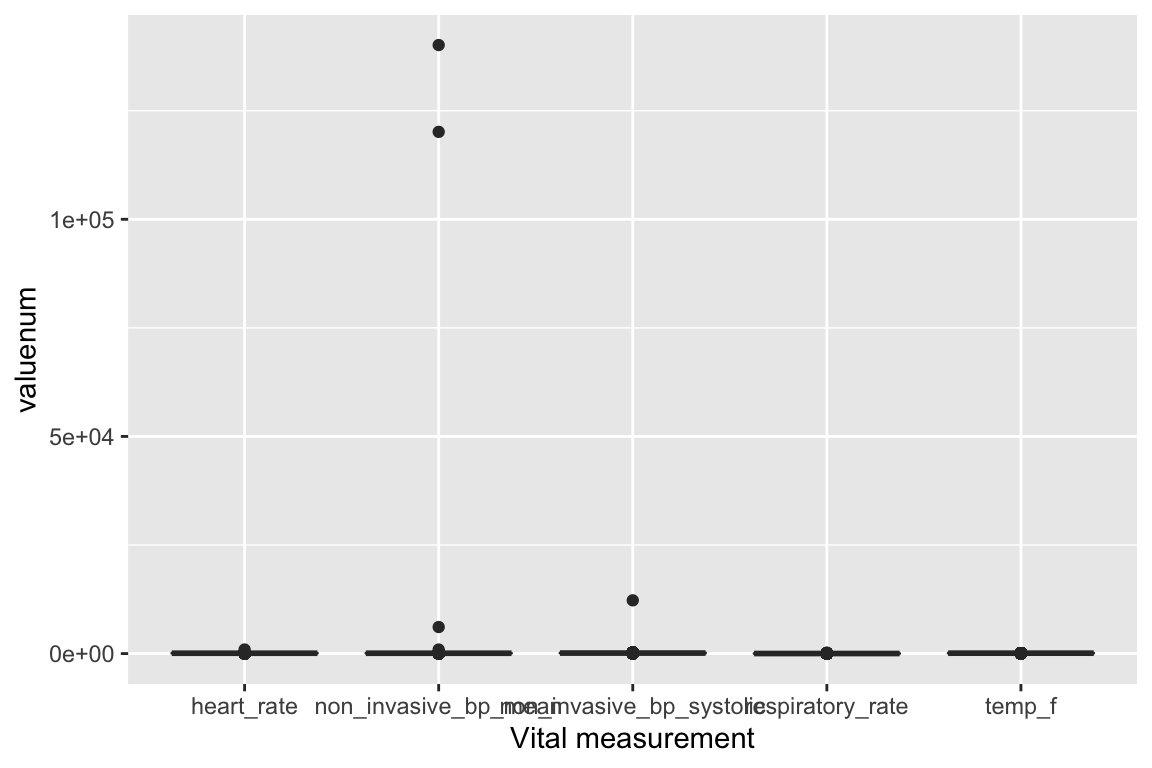
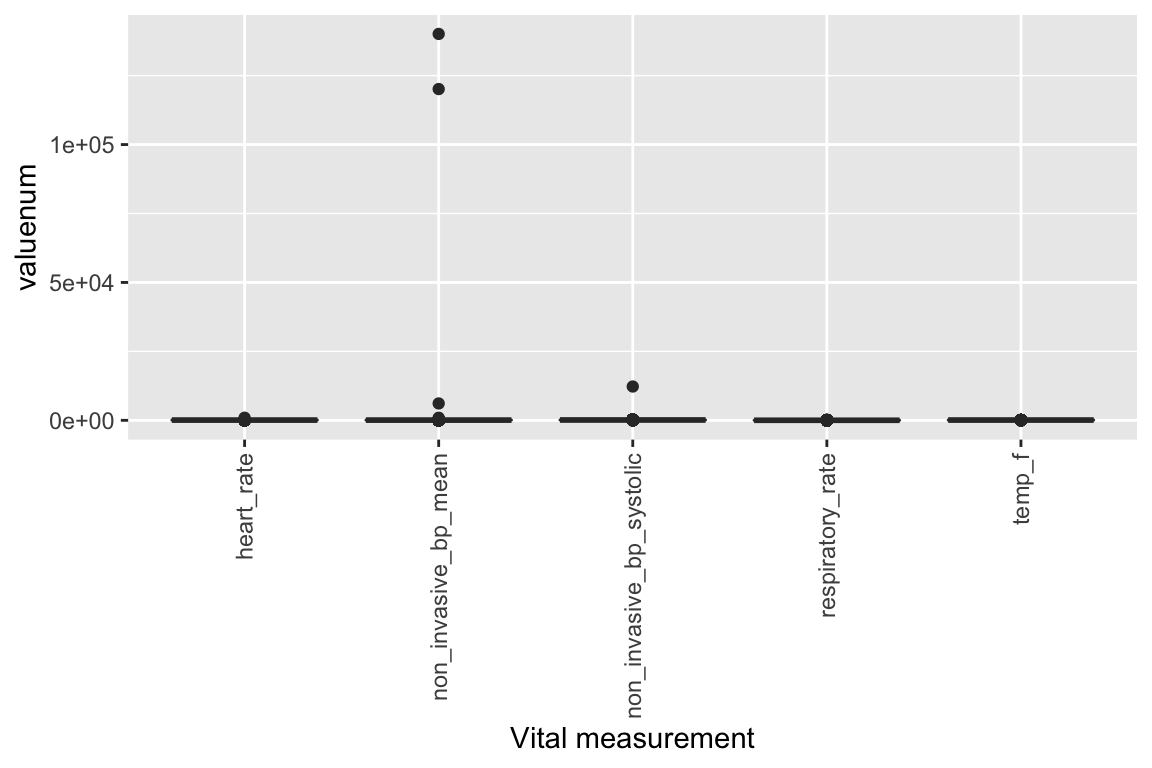
hw2 v10. Please merge to main

diff --git a/hw2/hw2-qmd.html b/hw2/hw2-qmd.html
@@ -255,21 +255,21 @@ loaded via a namespace (and not attached):
 <div class="sourceCode cell-code" id="cb13"><pre class="sourceCode r code-with-copy"><code class="sourceCode r"><span id="cb13-1"><a href="#cb13-1" aria-hidden="true" tabindex="-1"></a><span class="fu">system.time</span>(ad1 <span class="ot">&lt;-</span> <span class="fu">read.csv</span>(<span class="st">"~/mimic/core/admissions.csv.gz"</span>))</span></code><button title="Copy to Clipboard" class="code-copy-button"><i class="bi"></i></button></pre></div>
 <div class="cell-output cell-output-stdout">
 <pre><code>   user  system elapsed 
-  9.428   0.208   9.681 </code></pre>
+  9.313   0.222   9.627 </code></pre>
 </div>
 </div>
 <div class="cell" data-layout-align="center">
 <div class="sourceCode cell-code" id="cb15"><pre class="sourceCode r code-with-copy"><code class="sourceCode r"><span id="cb15-1"><a href="#cb15-1" aria-hidden="true" tabindex="-1"></a><span class="fu">system.time</span>(ad2 <span class="ot">&lt;-</span> <span class="fu">read_csv</span>(<span class="st">"~/mimic/core/admissions.csv.gz"</span>))</span></code><button title="Copy to Clipboard" class="code-copy-button"><i class="bi"></i></button></pre></div>
 <div class="cell-output cell-output-stdout">
 <pre><code>   user  system elapsed 
-  2.696   0.697   1.623 </code></pre>
+  2.576   0.571   1.501 </code></pre>
 </div>
 </div>
 <div class="cell" data-layout-align="center">
 <div class="sourceCode cell-code" id="cb17"><pre class="sourceCode r code-with-copy"><code class="sourceCode r"><span id="cb17-1"><a href="#cb17-1" aria-hidden="true" tabindex="-1"></a><span class="fu">system.time</span>(ad3 <span class="ot">&lt;-</span> <span class="fu">fread</span>(<span class="st">"~/mimic/core/admissions.csv.gz"</span>))</span></code><button title="Copy to Clipboard" class="code-copy-button"><i class="bi"></i></button></pre></div>
 <div class="cell-output cell-output-stdout">
 <pre><code>   user  system elapsed 
-  0.787   0.267   1.091 </code></pre>
+  0.782   0.267   1.093 </code></pre>
 </div>
 </div>
 <p><code>fread</code> is the fastest function.</p>
@@ -1180,7 +1180,8 @@ bicarbonate    chloride  creatinine     glucose  hematocrit   potassium
 <div class="cell" data-layout-align="center">
 <div class="sourceCode cell-code" id="cb103"><pre class="sourceCode r code-with-copy"><code class="sourceCode r"><span id="cb103-1"><a href="#cb103-1" aria-hidden="true" tabindex="-1"></a><span class="fu">ggplot</span>(chartevents_tble) <span class="sc">+</span></span>
 <span id="cb103-2"><a href="#cb103-2" aria-hidden="true" tabindex="-1"></a>  <span class="fu">geom_bar</span>(<span class="at">mapping =</span> <span class="fu">aes</span>(<span class="at">x =</span> itemcode, <span class="at">y =</span> ..count..)) <span class="sc">+</span></span>
-<span id="cb103-3"><a href="#cb103-3" aria-hidden="true" tabindex="-1"></a>  <span class="fu">xlab</span>(<span class="st">"Vital measurement"</span>)</span></code><button title="Copy to Clipboard" class="code-copy-button"><i class="bi"></i></button></pre></div>
+<span id="cb103-3"><a href="#cb103-3" aria-hidden="true" tabindex="-1"></a>  <span class="fu">theme</span>(<span class="at">axis.text.x =</span> <span class="fu">element_text</span>(<span class="at">angle =</span> <span class="dv">90</span>, <span class="at">vjust =</span> <span class="fl">0.5</span>, <span class="at">hjust =</span> <span class="dv">1</span>)) <span class="sc">+</span></span>
+<span id="cb103-4"><a href="#cb103-4" aria-hidden="true" tabindex="-1"></a>  <span class="fu">xlab</span>(<span class="st">"Vital measurement"</span>)</span></code><button title="Copy to Clipboard" class="code-copy-button"><i class="bi"></i></button></pre></div>
 <div class="cell-output-display">
 <div class="quarto-figure quarto-figure-center">
 <figure class="figure">
@@ -1261,7 +1262,8 @@ bicarbonate    chloride  creatinine     glucose  hematocrit   potassium
 <div class="cell" data-layout-align="center">
 <div class="sourceCode cell-code" id="cb108"><pre class="sourceCode r code-with-copy"><code class="sourceCode r"><span id="cb108-1"><a href="#cb108-1" aria-hidden="true" tabindex="-1"></a><span class="fu">ggplot</span>(chartevents_tble) <span class="sc">+</span> </span>
 <span id="cb108-2"><a href="#cb108-2" aria-hidden="true" tabindex="-1"></a>  <span class="fu">geom_boxplot</span>(<span class="at">mapping =</span> <span class="fu">aes</span>(<span class="at">x =</span> itemcode, <span class="at">y =</span> valuenum)) <span class="sc">+</span></span>
-<span id="cb108-3"><a href="#cb108-3" aria-hidden="true" tabindex="-1"></a>  <span class="fu">xlab</span>(<span class="st">"Vital measurement"</span>)</span></code><button title="Copy to Clipboard" class="code-copy-button"><i class="bi"></i></button></pre></div>
+<span id="cb108-3"><a href="#cb108-3" aria-hidden="true" tabindex="-1"></a>  <span class="fu">theme</span>(<span class="at">axis.text.x =</span> <span class="fu">element_text</span>(<span class="at">angle =</span> <span class="dv">90</span>, <span class="at">vjust =</span> <span class="fl">0.5</span>, <span class="at">hjust =</span> <span class="dv">1</span>)) <span class="sc">+</span></span>
+<span id="cb108-4"><a href="#cb108-4" aria-hidden="true" tabindex="-1"></a>  <span class="fu">xlab</span>(<span class="st">"Vital measurement"</span>)</span></code><button title="Copy to Clipboard" class="code-copy-button"><i class="bi"></i></button></pre></div>
 <div class="cell-output-display">
 <div class="quarto-figure quarto-figure-center">
 <figure class="figure">
@@ -1458,7 +1460,8 @@ FALSE  TRUE
 <div class="cell" data-layout-align="center">
 <div class="sourceCode cell-code" id="cb115"><pre class="sourceCode r code-with-copy"><code class="sourceCode r"><span id="cb115-1"><a href="#cb115-1" aria-hidden="true" tabindex="-1"></a><span class="fu">ggplot</span>(<span class="at">data =</span> mimic_icu_cohort) <span class="sc">+</span></span>
 <span id="cb115-2"><a href="#cb115-2" aria-hidden="true" tabindex="-1"></a>  <span class="fu">geom_bar</span>(<span class="at">mapping =</span> <span class="fu">aes</span>(<span class="at">x =</span> ethnicity, <span class="at">fill =</span> thirty_day_mort)) <span class="sc">+</span></span>
-<span id="cb115-3"><a href="#cb115-3" aria-hidden="true" tabindex="-1"></a>  <span class="fu">ylab</span>(<span class="st">"30 day mortality"</span>)</span></code><button title="Copy to Clipboard" class="code-copy-button"><i class="bi"></i></button></pre></div>
+<span id="cb115-3"><a href="#cb115-3" aria-hidden="true" tabindex="-1"></a>  <span class="fu">theme</span>(<span class="at">axis.text.x =</span> <span class="fu">element_text</span>(<span class="at">angle =</span> <span class="dv">90</span>, <span class="at">vjust =</span> <span class="fl">0.5</span>, <span class="at">hjust =</span> <span class="dv">1</span>)) <span class="sc">+</span></span>
+<span id="cb115-4"><a href="#cb115-4" aria-hidden="true" tabindex="-1"></a>  <span class="fu">ylab</span>(<span class="st">"30 day mortality"</span>)</span></code><button title="Copy to Clipboard" class="code-copy-button"><i class="bi"></i></button></pre></div>
 <div class="cell-output-display">
 <div class="quarto-figure quarto-figure-center">
 <figure class="figure">
@@ -1781,8 +1784,9 @@ FALSE  TRUE
 <div class="cell" data-layout-align="center">
 <div class="sourceCode cell-code" id="cb144"><pre class="sourceCode r code-with-copy"><code class="sourceCode r"><span id="cb144-1"><a href="#cb144-1" aria-hidden="true" tabindex="-1"></a><span class="fu">ggplot</span>(<span class="at">data =</span> mimic_icu_cohort) <span class="sc">+</span></span>
 <span id="cb144-2"><a href="#cb144-2" aria-hidden="true" tabindex="-1"></a>  <span class="fu">geom_bar</span>(<span class="at">mapping =</span> <span class="fu">aes</span>(<span class="at">x =</span> first_careunit, <span class="at">fill =</span> thirty_day_mort)) <span class="sc">+</span></span>
-<span id="cb144-3"><a href="#cb144-3" aria-hidden="true" tabindex="-1"></a>  <span class="fu">xlab</span>(<span class="st">"first ICU unit"</span>) <span class="sc">+</span></span>
-<span id="cb144-4"><a href="#cb144-4" aria-hidden="true" tabindex="-1"></a>  <span class="fu">ylab</span>(<span class="st">"30 day mortality"</span>)</span></code><button title="Copy to Clipboard" class="code-copy-button"><i class="bi"></i></button></pre></div>
+<span id="cb144-3"><a href="#cb144-3" aria-hidden="true" tabindex="-1"></a>  <span class="fu">theme</span>(<span class="at">axis.text.x =</span> <span class="fu">element_text</span>(<span class="at">angle =</span> <span class="dv">90</span>, <span class="at">vjust =</span> <span class="fl">0.5</span>, <span class="at">hjust =</span> <span class="dv">1</span>)) <span class="sc">+</span></span>
+<span id="cb144-4"><a href="#cb144-4" aria-hidden="true" tabindex="-1"></a>  <span class="fu">xlab</span>(<span class="st">"first ICU unit"</span>) <span class="sc">+</span></span>
+<span id="cb144-5"><a href="#cb144-5" aria-hidden="true" tabindex="-1"></a>  <span class="fu">ylab</span>(<span class="st">"30 day mortality"</span>)</span></code><button title="Copy to Clipboard" class="code-copy-button"><i class="bi"></i></button></pre></div>
 <div class="cell-output-display">
 <div class="quarto-figure quarto-figure-center">
 <figure class="figure">
